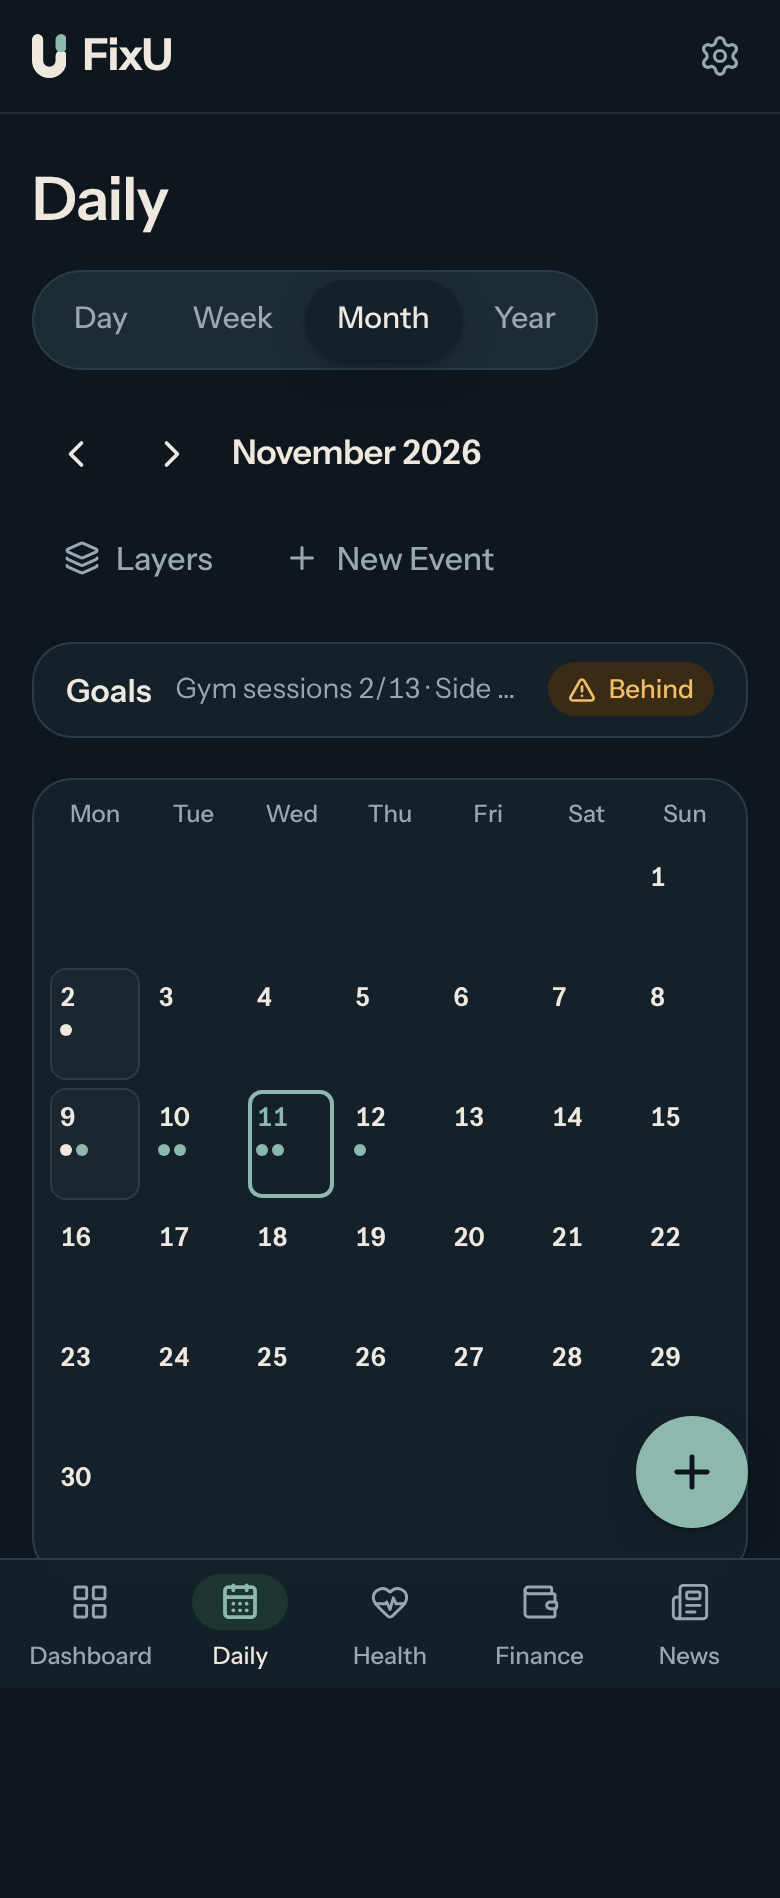
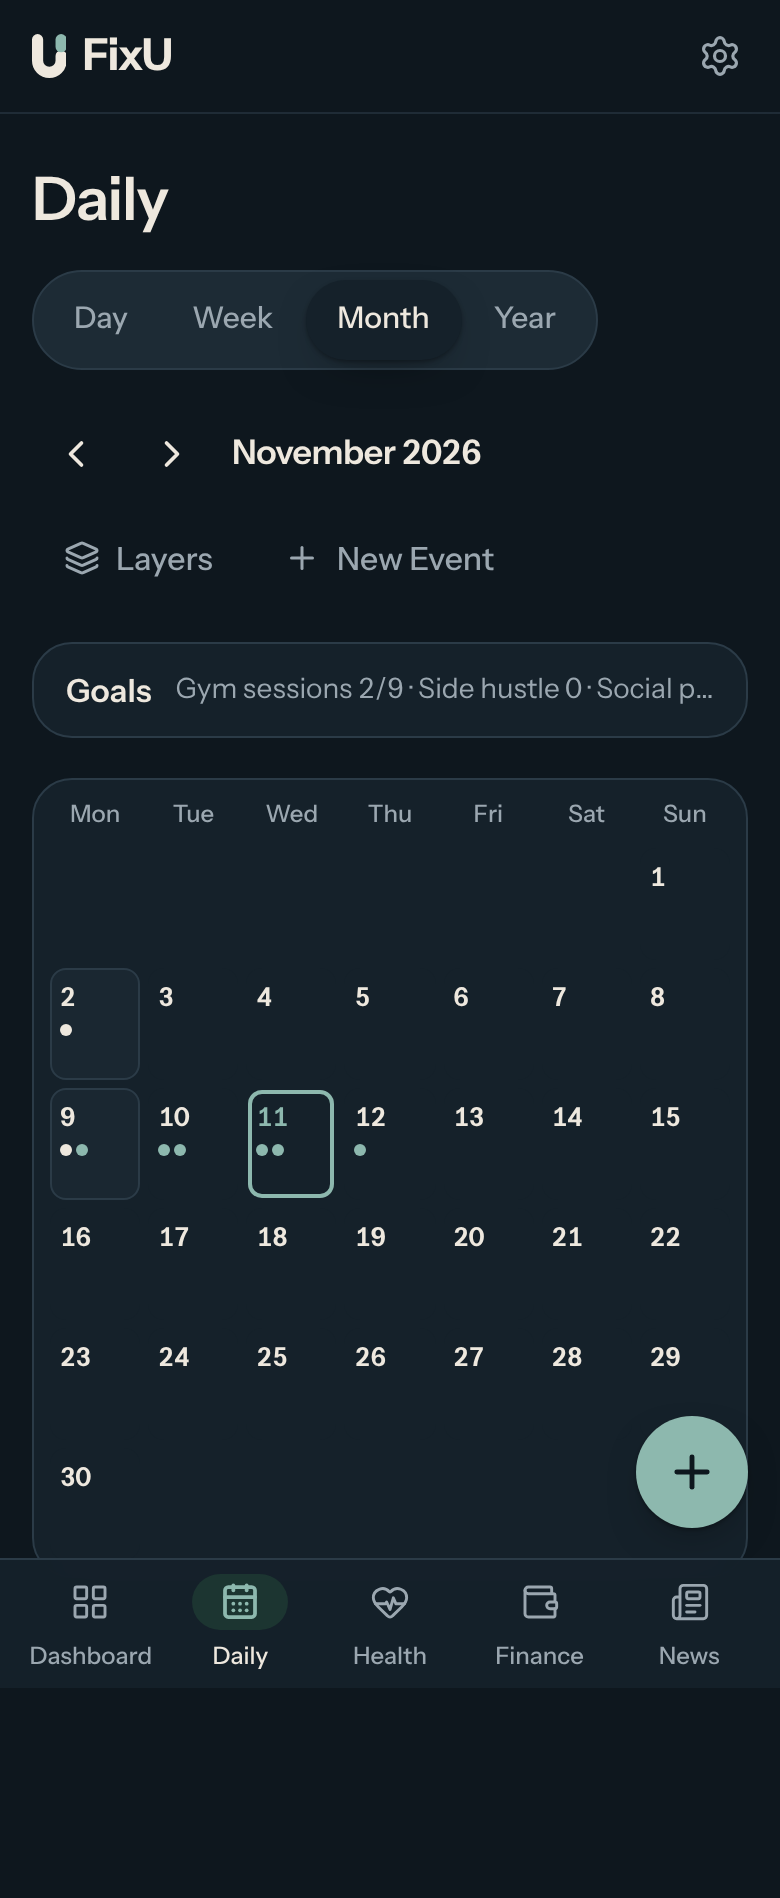
Phase 1: QA fixes, end-to-end flow test, screenshots
- Goals count from when tracking began (no false 'Behind')
- Form errors outside labels; accessible names match visible text
- Singular units, wrapped titles, Time label
- End-to-end calendar flow script and Phase 1 QA report

Claude-Session: https://claude.ai/code/session_016MHgu8oLsLkwrugwMrSJui

Changed region(s): [[0.6154, 0.3419, 0.9231, 0.4041], [0.4923, 0.3419, 0.5846, 0.373]]

diff --git a/src/modules/daily/components/EventForm.tsx b/src/modules/daily/components/EventForm.tsx
@@ -43,8 +43,8 @@ export function EventForm({ date, startMin, onSaved }: { date: string; startMin:
 
   return (
     <form onSubmit={submit} noValidate className="flex flex-col gap-4">
-      <label className="flex flex-col gap-1">
-        <span className={fieldStyles.label}>{t.daily.form.name}</span>
+      <div className="flex flex-col gap-1">
+        <label htmlFor={ids.title} className={fieldStyles.label}>{t.daily.form.name}</label>
         <input
           ref={titleRef}
           id={ids.title}
@@ -58,7 +58,7 @@ export function EventForm({ date, startMin, onSaved }: { date: string; startMin:
           className={fieldStyles.input}
         />
         {errors.title && <span id={ids.titleErr} className={fieldStyles.error}>{errors.title}</span>}
-      </label>
+      </div>
       <div className="grid grid-cols-2 gap-3">
         <label className="flex flex-col gap-1">
           <span className={fieldStyles.label}>{t.daily.form.area}</span>

diff --git a/src/modules/daily/components/ItemChip.tsx b/src/modules/daily/components/ItemChip.tsx
@@ -64,7 +64,7 @@ export function ItemChip({ item, today, nowMin, onOpen }: { item: CalendarItem; 
     >
       <Icon size={16} strokeWidth={2.25} aria-hidden="true" className="shrink-0" />
       <span className="min-w-0 flex-1">
-        <span className={`block truncate text-[0.9375rem] font-medium ${look.titleClass ?? ''}`}>{itemTitle(item)}</span>
+        <span className={`line-clamp-2 block text-[0.9375rem] font-medium break-words ${look.titleClass ?? ''}`}>{itemTitle(item)}</span>
         {(meta || look.stateLabel) && (
           <span className="block truncate text-[0.8125rem] text-muted">
             {[look.stateLabel, meta].filter(Boolean).join(' · ')}

diff --git a/src/modules/daily/components/ItemDetails.tsx b/src/modules/daily/components/ItemDetails.tsx
@@ -23,7 +23,7 @@ export function ItemDetails({ item, onDone, onToast }: { item: CalendarItem; onD
       <dd>{formatDay(item.date)}</dd>
       {time && (
         <>
-          <dt className="text-muted">{t.daily.form.start}</dt>
+          <dt className="text-muted">{t.daily.form.time}</dt>
           <dd className="tabular">{time}</dd>
         </>
       )}

diff --git a/src/lib/i18n/en.ts b/src/lib/i18n/en.ts
@@ -119,6 +119,7 @@ export const en = {
       area: 'Area',
       date: 'Date',
       start: 'Start',
+      time: 'Time',
       end: 'End',
       allDay: 'All day',
       save: 'Add Event',

diff --git a/docs/qa-report.md b/docs/qa-report.md
@@ -34,3 +34,37 @@
 - One type family (Instrument Sans) for UI and the wordmark.
 - Quick add is UI only; submitting says plainly that nothing was saved. The parser connects in Phase 2.
 - Not yet checked: Lighthouse (needs a deployed URL) and install on a real phone.
+
+## Phase 1: Daily calendar
+
+**Scope:** Day / Week / Month / Year views, events with planned / done / missed / rescheduled states, goals panel (side column on desktop, summary + sheet on phones), calendar layers (personal, Madrid public holidays, NTT DATA, Real Madrid, cultural dates), NTT holiday import, database schema.
+
+### Checks run
+
+| Check | Result |
+|---|---|
+| Unit tests (Vitest) | 27/27 pass: Easter and Semana Santa (incl. cross-check against the BOE), Swedish Mother's Day, Madrid timezone and DST, goal maths, ICS parsing, NTT import parsing, holiday data has sources |
+| End-to-end flow, 390×844 (`npm run e2e`) | 8/8 pass: validation, add event, mark done + undo, reschedule keeps history, delete + undo, holiday source link, layer toggle, view switching with URL state |
+| axe-core, 11 routes/views × 3 configs | 0 violations (fixed: day buttons whose accessible name didn't contain their visible text) |
+| Schema migration + holiday seed on Postgres 16 | Applies cleanly; seed is idempotent |
+| Lint, types, production build | Pass |
+| Screenshots | `docs/screenshots/phase-1/` (demo events are test data injected into the headless browser only) |
+
+### Issues found and fixed
+
+| Issue | Severity | Fix |
+|---|---|---|
+| Month/year goals compared against the whole period, so a new user was "Behind" on day one | High | Goals count from when tracking began |
+| Form error text sat inside the label, polluting the field's accessible name | Medium | Error moved outside the label, linked with `aria-describedby` |
+| Day/month buttons: accessible name didn't contain visible text | Medium | Visible text + screen-reader-only full date |
+| "1 sessions planned", "Gym · Gym" | Low | Singular units; area hidden when it repeats the title |
+| Long holiday names cut off | Low | Titles wrap to two lines |
+| Event time labelled "Start" while showing a range | Low | Labelled "Time" |
+
+### Assumptions and open items
+
+- **Holiday data:** 2026 and 2027 national/regional days from the BOE (cross-checked with the Comunidad's 2027 decree); 2026 Madrid city days from the BOCM. **2027 Madrid city days (15 May, 9 Nov) are marked provisional:** announced by the city council, but the BOCM list isn't published yet (usually early December).
+- **Storage:** events, layers and NTT holidays are kept in the browser until the Supabase project is connected; the schema is ready (`supabase/migrations`).
+- **Real Madrid layer** shows "Waiting for the fixtures API key" until the key is set. football-data.org's free tier covers La Liga and the Champions League; other competitions come from `FIXTURES_ICS_URLS`.
+- **Social goal** uses the brief's "at least one social block a week" until you set a target; **side-hustle target** stays "not set".
+- Not yet checked: Lighthouse and install on a phone (need a deployed URL).
